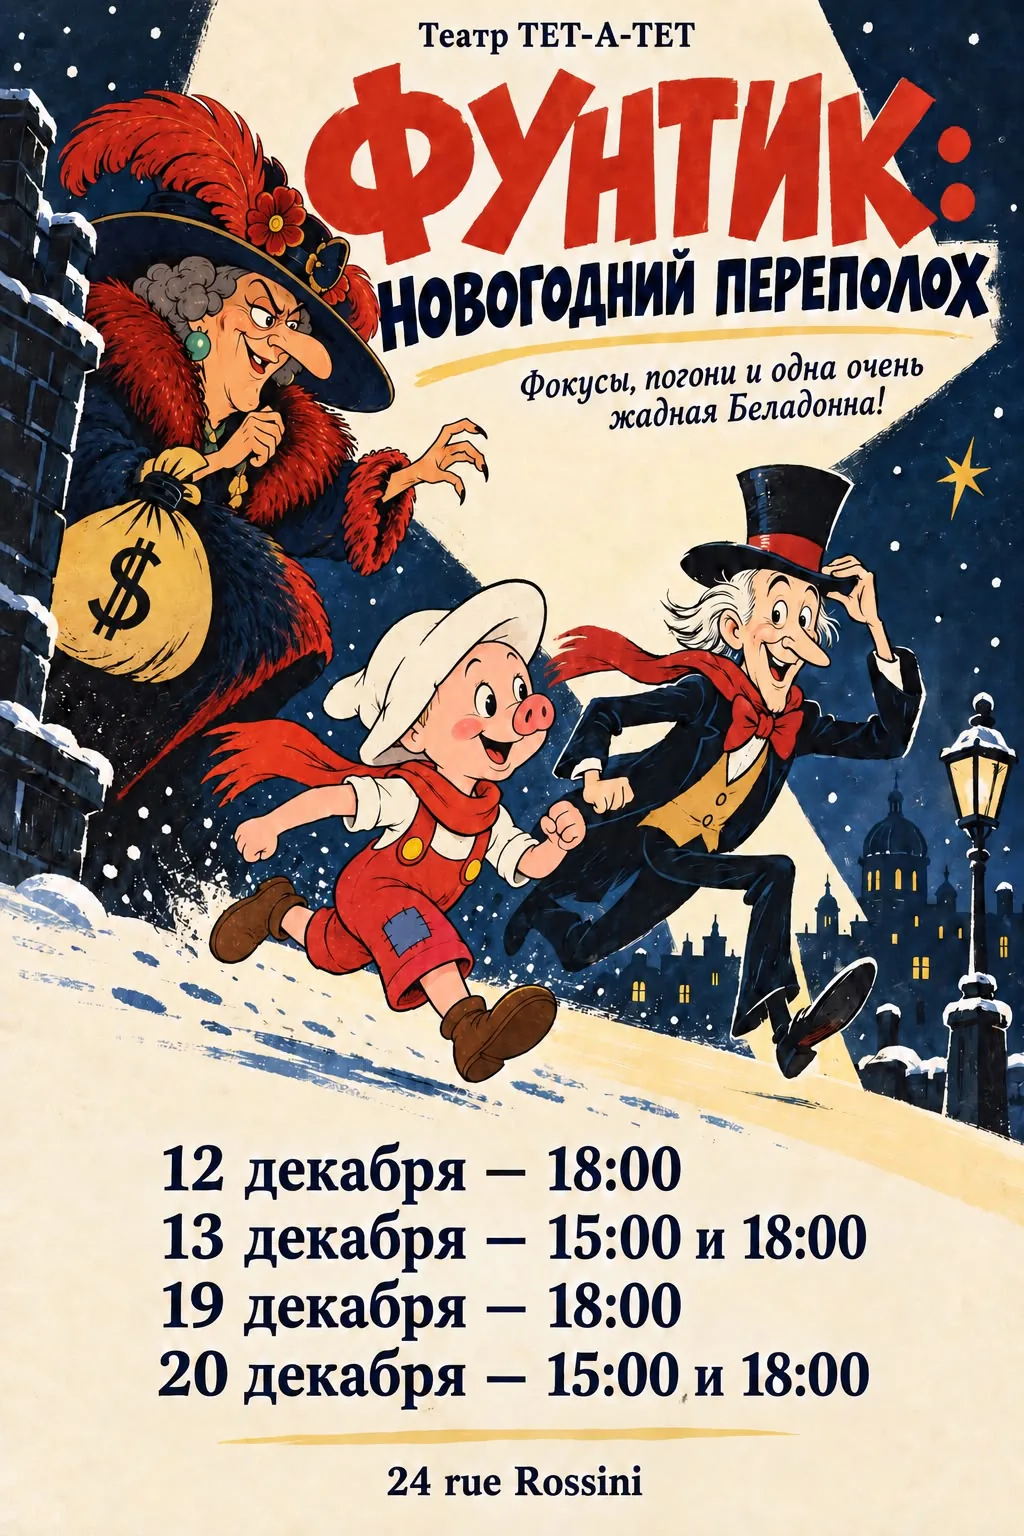
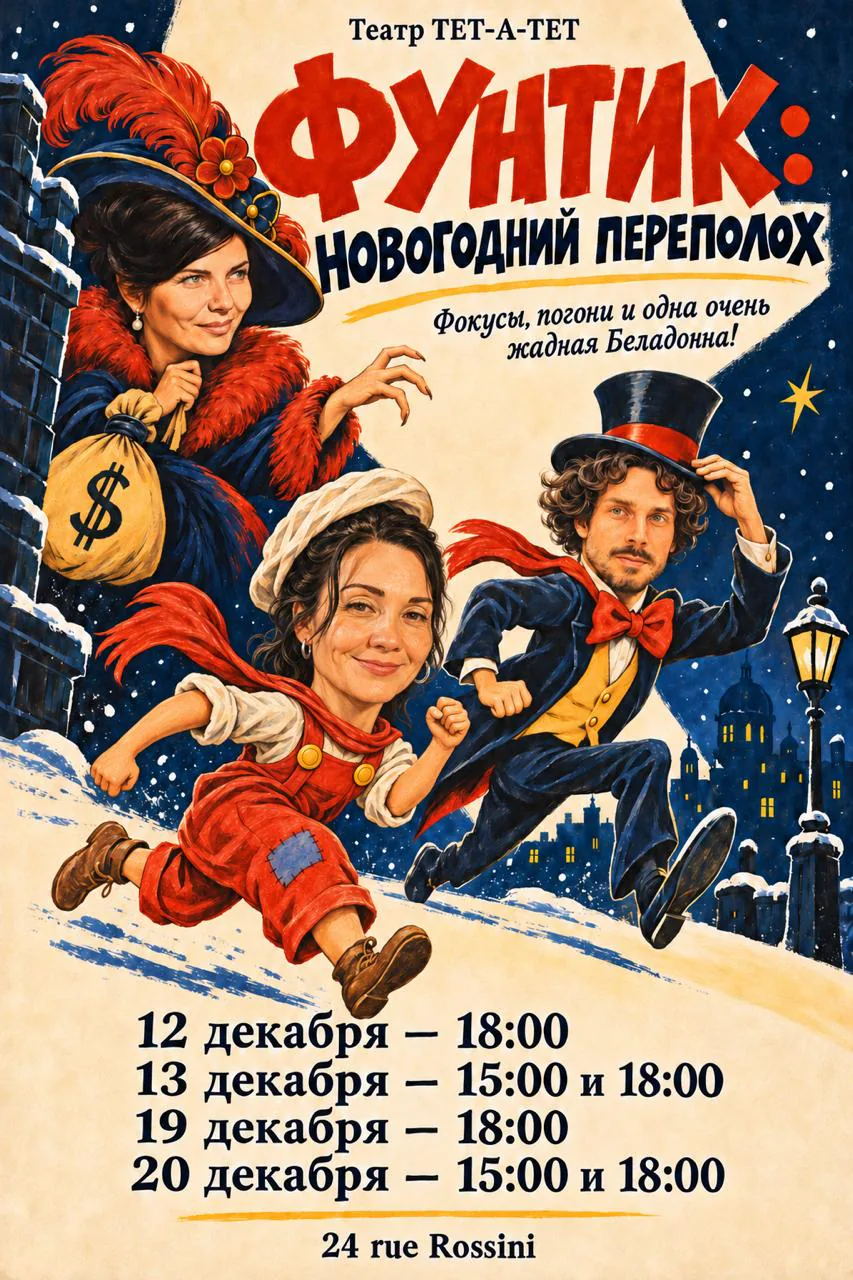
feat(shows): новая официальная афиша «Фунтика»

diff --git a/src/data/shows.ts b/src/data/shows.ts
@@ -23,7 +23,7 @@ import lubovPoster     from '../assets/shows/lubov.webp';
 import shapochkaPoster from '../assets/shows/shapochka.webp';
 import kovchegPoster   from '../assets/shows/kovcheg8.webp';
 import nulinPoster     from '../assets/shows/nulin.webp';
-// Официальные афиши театра (ноябрь 2026): оригинальные JPG → WebP без обрезки,
+// Официальные афиши театра (ноябрь 2026; «Фунтик» — новая афиша от 10.11): оригинальные JPG → WebP без обрезки,
 // в исходном разрешении — весь текст афиши (название, даты, адрес) сохранён.
 import duimovochkaPoster from '../assets/shows/duimovochka.webp';
 import funtikPoster      from '../assets/shows/funtik.webp';
